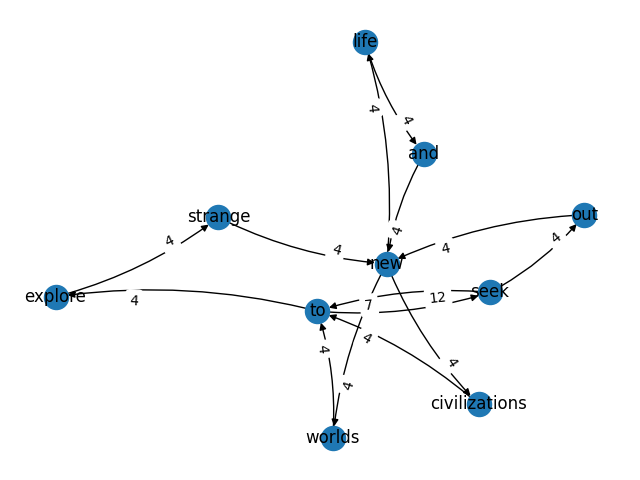
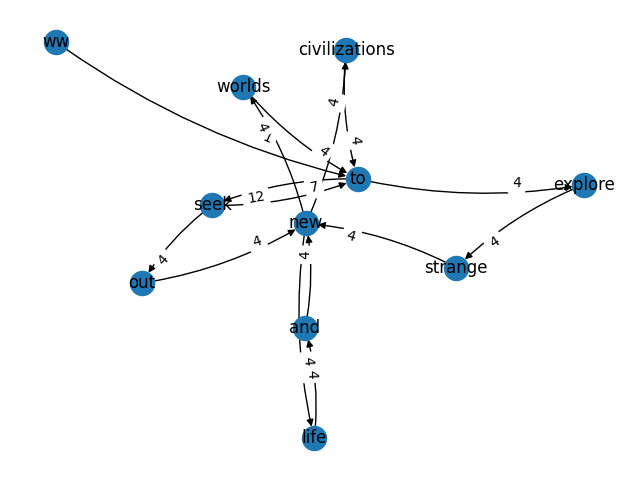
lab3b

diff --git a/lab1.py b/lab1.py
@@ -54,7 +54,7 @@ def generate_directed_graph(input_path):
             G.remove_edge(*edge)
             # Increase the count
             edge_counts[edge] += 1
-            print(f"Edge {edge} has been added {edge_counts[edge]} times.")
+            # print(f"Edge {edge} has been added {edge_counts[edge]} times.")
         else:
             edge_counts[edge] = 1
 
@@ -62,7 +62,7 @@ def generate_directed_graph(input_path):
         G.add_edge(*edge, key=edge_counts[edge], weight=edge_counts[edge])
 
     # 设置随机种子
-    np.random.seed(0)
+    np.random.seed(1234)
     pos = nx.spring_layout(G)
     return G, pos, words
 
@@ -147,14 +147,24 @@ def fun_5(output_path):
 
 
 def calc_shortest_path(G, word1, word2):
-    shortest_path = nx.shortest_path(G, source=word1, target=word2, weight='weight')
+    # 检查 word1 和 word2 是否为空字符串
+    if word1 == "" or word2 == "":
+        return [ ], 0
+    # 将 word1 和 word2 都转换为小写
+    word1 = word1.lower()
+    word2 = word2.lower()
+    # 检查 word1 和 word2 是否都在图中
+    if word1 not in G or word2 not in G:
+        return [ ], 0
+    try:
+        shortest_path = nx.shortest_path(G, source=word1, target=word2, weight='weight')
+    except nx.NetworkXNoPath:
+        return [ ], 0
     path_edges = [(shortest_path[i], shortest_path[i + 1]) for i in range(len(shortest_path) - 1)]
     path_length = 0
     for u, v in path_edges:
         edge_data = G.get_edge_data(u, v)
         min_weight = min(data['weight'] for data in edge_data.values())
-
-        print(f"Edge {u} -> {v} has weight {min_weight}")
         path_length += min_weight
 
     return path_edges, path_length
@@ -224,3 +234,10 @@ def randomWalk():
         time.sleep(1)
 
     return st.session_state.text
+
+if __name__ == '__main__':
+    chong_zhi()
+    fun_3()
+    generate_new_text('input/2.txt')
+    fun_5('output/2.png')
+    randomWalk()

diff --git a/test.py b/test.py
@@ -1,0 +1,37 @@
+from lab1 import *
+
+def test_shortest_path_1():
+    G, pos, words = generate_directed_graph('input/1.txt')
+    path_edges, path_length = calc_shortest_path(G, 'to', 'and')
+    assert path_edges == [('to', 'explore'), ('explore', 'strange'), ('strange', 'new'), ('new', 'life'), ('life', 'and')], path_edges
+    assert path_length == 20, path_length
+
+def test_shortest_path_2():
+    G, pos, words = generate_directed_graph('input/1.txt')
+    path_edges, path_length = calc_shortest_path(G, 'To', 'AND')
+    assert path_edges == [('to', 'explore'), ('explore', 'strange'), ('strange', 'new'), ('new', 'life'), ('life', 'and')], path_edges
+    assert path_length == 20, path_length
+
+def test_shortest_path_3():
+    G, pos, words = generate_directed_graph('input/1.txt')
+    path_edges, path_length = calc_shortest_path(G, 'AnD', 'To')
+    assert path_edges == [('and', 'new'), ('new', 'worlds'), ('worlds', 'to')], path_edges
+    assert path_length == 12, path_length
+
+def test_shortest_path_4():
+    G, pos, words = generate_directed_graph('input/1.txt')
+    path_edges, path_length = calc_shortest_path(G, 'a', 'c')
+    assert path_edges == [ ], path_edges
+    assert path_length == 0, path_length
+
+def test_shortest_path_5():
+    G, pos, words = generate_directed_graph('input/1.txt')
+    path_edges, path_length = calc_shortest_path(G, 'and', '')
+    assert path_edges == [ ], path_edges
+    assert path_length == 0, path_length
+
+def test_shortest_path_6():
+    G, pos, words = generate_directed_graph('input/1.txt')
+    path_edges, path_length = calc_shortest_path(G, 'and', 'ww')
+    assert path_edges == [ ], path_edges
+    assert path_length == 0, path_length
